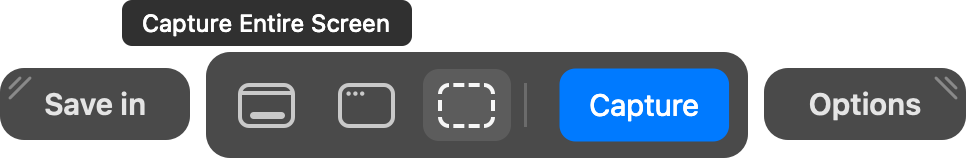
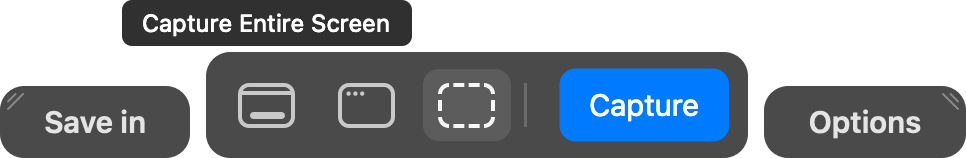
screenshot: groups level with the bar's bottom, finer grip
The shrunk Save in and Options blocks now share the bar's bottom edge
instead of sitting centred on it, and the corner grip is 0.75 of its
size, 1 pt lines, 4 pt from the corner.

Changed region(s): [[0.7764, 0.4304, 1.0, 1.0], [0.0, 0.4304, 0.2174, 1.0]]

diff --git a/screenshot/Sources/Screenshot/Bar.swift b/screenshot/Sources/Screenshot/Bar.swift
@@ -100,11 +100,10 @@ final class Bar: NSPanel {
         if sections.map({ $0.hover(p) }).contains(true) { NSCursor.pointingHand.set() }
     }
 
-    /// 8 pt off each end, centred on the bar's height: they grow upward and away from it.
+    /// 8 pt off each end, bottoms level with the bar's: they grow upward and away from it.
     private func placeSections() {
-        let y = frame.minY + ((Bar.height - Section.shutHeight) / 2).rounded()
-        saveIn.anchor = CGPoint(x: frame.minX - 8, y: y)
-        options.anchor = CGPoint(x: frame.maxX + 8, y: y)
+        saveIn.anchor = CGPoint(x: frame.minX - 8, y: frame.minY)
+        options.anchor = CGPoint(x: frame.maxX + 8, y: frame.minY)
         for s in sections { s.setFrame(s.target(s.expanded), display: false) }
     }
 
@@ -500,15 +499,15 @@ private final class Grip: NSView {
 
     override func draw(_ dirtyRect: NSRect) {
         let p = NSBezierPath()
-        // Across the top corner, 5 pt in: clear of the 12 pt rounding.
-        for a: CGFloat in [10, 5] {
-            let x0: CGFloat = left ? 5 : bounds.maxX - 5
-            let edge = CGPoint(x: x0, y: bounds.maxY - 5 - a)
-            let top = CGPoint(x: left ? x0 + a : x0 - a, y: bounds.maxY - 5)
+        // Across the top corner, 4 pt in: still inside the 12 pt rounding.
+        for a: CGFloat in [7.5, 3.75] {
+            let x0: CGFloat = left ? 4 : bounds.maxX - 4
+            let edge = CGPoint(x: x0, y: bounds.maxY - 4 - a)
+            let top = CGPoint(x: left ? x0 + a : x0 - a, y: bounds.maxY - 4)
             p.move(to: edge)
             p.line(to: top)
         }
-        p.lineWidth = 1.5
+        p.lineWidth = 1
         p.lineCapStyle = .round
         NSColor.labelColor.withAlphaComponent(0.35).setStroke()
         p.stroke()
